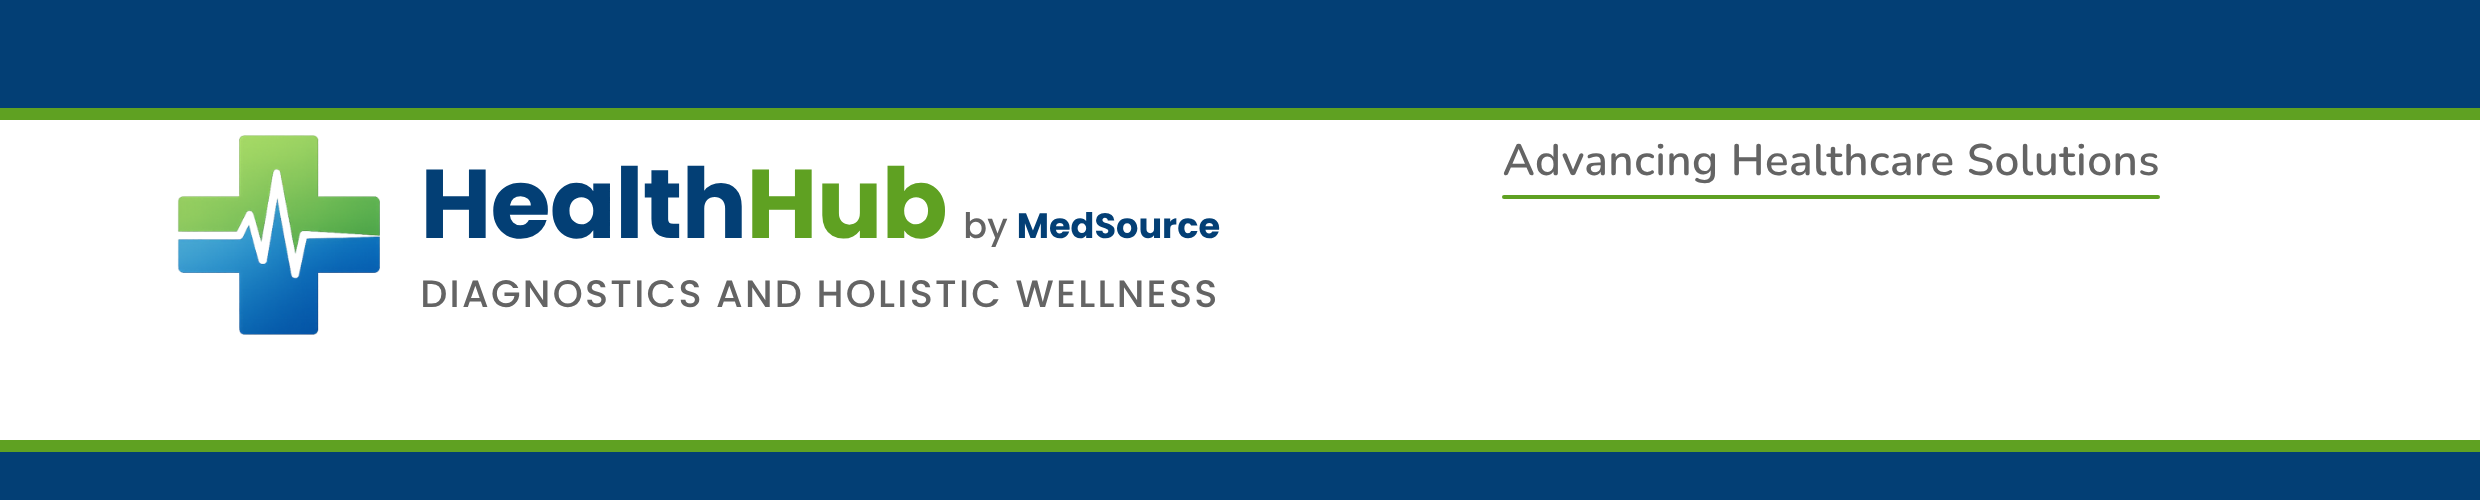
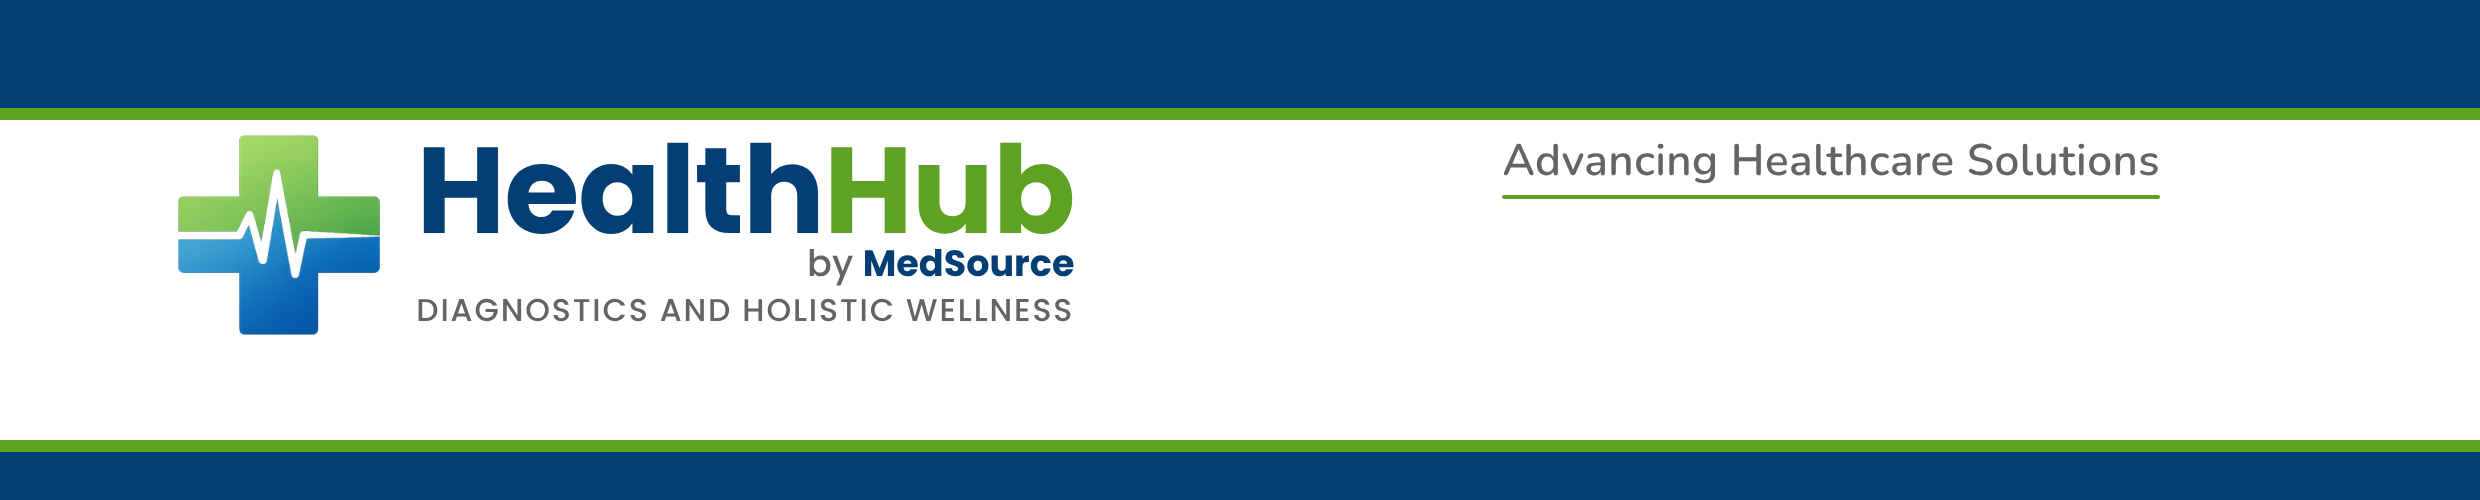
HealthHub letterhead: stacked lockup with design system proportions
Claude-Session: https://claude.ai/code/session_016dL7ufMN2VFfGBhqrXKWEq

Changed region(s): [[0.1552, 0.27, 0.4968, 0.66]]

diff --git a/healthhub/print/2026-10-healthhub-letterhead/source.html b/healthhub/print/2026-10-healthhub-letterhead/source.html
@@ -11,16 +11,17 @@ body{background:#888;font-family:"Nunito",sans-serif;display:flex;flex-direction
 .abs{position:absolute}
 .bar{position:absolute;left:0;width:2480px;background:var(--navy)}
 .acc{position:absolute;left:0;width:2480px;background:var(--green)}
-/* lockup: mark + text block, text block centred on the cross */
+/* lockup: mark + text block. Text lines are positioned by cap height so gaps are optical, not line-box accidents. */
 .lock{position:absolute;left:177px;display:flex;align-items:center}
 .lock img{display:block;flex:none}
-.txt{display:flex;flex-direction:column;align-items:flex-start;font-family:"Poppins",sans-serif}
-.name{display:flex;align-items:baseline;line-height:1;white-space:nowrap}
+.txt{position:relative;font-family:"Poppins",sans-serif}
+.txt>div{position:absolute;white-space:nowrap;line-height:1}
+.name{left:0;display:flex}
 .wm{display:inline-flex}
 .w{font-weight:700;letter-spacing:-.01em}
-.by{font-weight:500;color:var(--grey)}
+.by{right:0;font-weight:500;color:var(--grey)}
 .by b{font-weight:700;color:var(--navy)}
-.desc{font-weight:500;color:var(--grey);white-space:nowrap;line-height:1;text-transform:uppercase;letter-spacing:.06em}
+.desc{left:0;font-weight:500;color:var(--grey);text-transform:uppercase;letter-spacing:.06em}
 /* tagline: Nunito SemiBold grey with a short green rule */
 .tagwrap{position:absolute;right:320px;display:flex;flex-direction:column;align-items:stretch}
 .tag{font-family:"Nunito",sans-serif;font-weight:600;color:var(--grey);white-space:nowrap;text-align:right;letter-spacing:.01em}
@@ -31,10 +32,11 @@ body{background:#888;font-family:"Nunito",sans-serif;display:flex;flex-direction
 <div class="piece" id="h1" style="height:500px">
   <div class="bar" style="top:0;height:120px"></div>
   <div class="acc" style="top:108px;height:12px"></div>
-  <div class="lock" id="lock1" style="top:120px;height:230px" data-gap="40" data-target="800" data-icon="200">
+  <div class="lock" id="lock1" style="top:120px;height:230px" data-gap="36" data-s="122">
     <img src="assets/healthhub-mark.png" style="height:200px" alt="HealthHub mark">
     <div class="txt">
-      <div class="name"><span class="wm"><span class="w" style="color:var(--navy)">Health</span><span class="w" style="color:var(--green)">Hub</span></span><span class="by">by <b>MedSource</b></span></div>
+      <div class="name"><span class="wm"><span class="w" style="color:var(--navy)">Health</span><span class="w" style="color:var(--green)">Hub</span></span></div>
+      <div class="by">by <b>MedSource</b></div>
       <div class="desc">Diagnostics and Holistic Wellness</div>
     </div>
   </div>
@@ -48,10 +50,11 @@ body{background:#888;font-family:"Nunito",sans-serif;display:flex;flex-direction
 <div class="piece" id="h2" style="height:250px">
   <div class="bar" style="top:0;height:56px"></div>
   <div class="acc" style="top:48px;height:8px"></div>
-  <div class="lock" id="lock2" style="top:56px;height:162px" data-gap="30" data-target="580" data-icon="112">
+  <div class="lock" id="lock2" style="top:56px;height:162px" data-gap="20" data-s="68">
     <img src="assets/healthhub-mark.png" style="height:112px" alt="HealthHub mark">
     <div class="txt">
-      <div class="name"><span class="wm"><span class="w" style="color:var(--navy)">Health</span><span class="w" style="color:var(--green)">Hub</span></span><span class="by">by <b>MedSource</b></span></div>
+      <div class="name"><span class="wm"><span class="w" style="color:var(--navy)">Health</span><span class="w" style="color:var(--green)">Hub</span></span></div>
+      <div class="by">by <b>MedSource</b></div>
       <div class="desc">Diagnostics and Holistic Wellness</div>
     </div>
   </div>
@@ -64,9 +67,10 @@ body{background:#888;font-family:"Nunito",sans-serif;display:flex;flex-direction
 <div class="piece" id="f" style="height:250px">
   <div class="bar" style="top:0;height:24px"></div>
   <div class="acc" style="top:24px;height:8px"></div>
-  <div class="lock" id="lock3" style="top:32px;height:186px" data-gap="0" data-target="640" data-icon="0">
+  <div class="lock" id="lock3" style="top:32px;height:186px" data-gap="0" data-s="80">
     <div class="txt">
-      <div class="name"><span class="wm"><span class="w" style="color:var(--navy)">Health</span><span class="w" style="color:var(--green)">Hub</span></span><span class="by">by <b>MedSource</b></span></div>
+      <div class="name"><span class="wm"><span class="w" style="color:var(--navy)">Health</span><span class="w" style="color:var(--green)">Hub</span></span></div>
+      <div class="by">by <b>MedSource</b></div>
       <div class="desc">Diagnostics and Holistic Wellness</div>
     </div>
   </div>
@@ -76,14 +80,21 @@ body{background:#888;font-family:"Nunito",sans-serif;display:flex;flex-direction
 </div>
 
 <script>
-// Proportions: by MedSource is 36% of the wordmark size; descriptor is tracked +6% and set to the exact width of the name line; icon to text gap and line gap scale with the wordmark.
+// Poppins cap height .703em, line-height 1 puts cap top at .147em. X = wordmark cap height.
+// Lines: wordmark; "by MedSource" at 30% size right-aligned under the wordmark; descriptor tracked +6%, set to the exact wordmark width.
 function fit(lock){
-  const name=lock.querySelector('.name'),desc=lock.querySelector('.desc'),by=lock.querySelector('.by'),txt=lock.querySelector('.txt'),img=lock.querySelector('img');
-  const target=+lock.dataset.target, gap=+lock.dataset.gap;
-  const setSize=px=>{name.querySelectorAll('.w').forEach(e=>e.style.fontSize=px+'px');by.style.fontSize=(px*.36)+'px';by.style.marginLeft=(px*.17)+'px';desc.style.marginTop=(px*.22)+'px'};
-  setSize(100);
-  const px=100*target/name.getBoundingClientRect().width; setSize(px);
-  desc.style.fontSize='20px'; const w=desc.getBoundingClientRect().width; desc.style.fontSize=(20*name.getBoundingClientRect().width/w)+'px';
+  const txt=lock.querySelector('.txt'),name=txt.querySelector('.name'),by=txt.querySelector('.by'),desc=txt.querySelector('.desc'),img=lock.querySelector('img');
+  const s=+lock.dataset.s, gap=+lock.dataset.gap, CAP=.703, TOP=.147;
+  name.style.fontSize=s+'px'; name.querySelectorAll('.w').forEach(e=>e.style.fontSize=s+'px');
+  const W=name.getBoundingClientRect().width, X=CAP*s;
+  const b=s*.30; by.style.fontSize=b+'px';
+  desc.style.fontSize='20px'; const dw=desc.getBoundingClientRect().width; const d=20*W/dw; desc.style.fontSize=d+'px';
+  const y0=0;                       // wordmark cap top
+  const base0=y0+X;                 // wordmark baseline
+  const byCap=base0+.20*X, byBase=byCap+CAP*b;
+  const dCap=byBase+.27*X, dBase=dCap+CAP*d;
+  name.style.top=(y0-TOP*s)+'px'; by.style.top=(byCap-TOP*b)+'px'; desc.style.top=(dCap-TOP*d)+'px';
+  txt.style.width=W+'px'; txt.style.height=dBase+'px';
   if(img) txt.style.marginLeft=gap+'px';
 }
 document.fonts.ready.then(()=>{document.querySelectorAll('.lock').forEach(fit);document.body.dataset.ready='1'});

diff --git a/healthhub/print/2026-10-healthhub-letterhead/print.md b/healthhub/print/2026-10-healthhub-letterhead/print.md
@@ -8,7 +8,7 @@
 | Status | Draft |
 | Design | [MedSource HealthHub Design System](https://claude.ai/artifact/9rBBbMZtz8yim7BnH17PUR) (flat navy #033F75 and green #5FA122, Nunito). MedHealth logo carried over with the name changed to HealthHub by MedSource. Source: [source.html](source.html) |
 
-Follows the HealthHub design system: flat colour only (gradients stay inside the logo), navy bars on the outer edges with a thin flat green accent line next to the white area, tagline "Advancing Healthcare Solutions" in Nunito SemiBold grey with a short green rule. The lockup is proportioned from the mark: text block centred on the cross, descriptor tracked +6% and set to the exact width of the name line, tagline centred on the lockup (header first page keeps it inside the optional tagline band). The cross and heartbeat mark is untouched (cropped from the supplied MedHealth logo). Only the name changed: "MedHealth" became "HealthHub" with a smaller "by MedSource", in the logo's own Poppins lettering, with the descriptor kept the same width as the wordmark.
+Follows the HealthHub design system: flat colour only (gradients stay inside the logo), navy bars on the outer edges with a thin flat green accent line next to the white area, tagline "Advancing Healthcare Solutions" in Nunito SemiBold grey with a short green rule. The lockup follows the design system proportions: the mark is about 2.45 times the wordmark cap height, "by MedSource" is 30% of the wordmark size and right-aligned under it, the descriptor is tracked +6% and set to the exact wordmark width, gaps are set from the cap height, and the text block is centred on the cross. The tagline centred on the lockup (header first page keeps it inside the optional tagline band). The cross and heartbeat mark is untouched (cropped from the supplied MedHealth logo). Only the name changed: "MedHealth" became "HealthHub" with a smaller "by MedSource", in the logo's own Poppins lettering, with the descriptor kept the same width as the wordmark.
 
 Fitted to [LETTERHEAD-SPEC.md](../../../LETTERHEAD-SPEC.md). First page header keeps Zone A (branch tag) and Zone B (phone, email, address) blank because the system prints them. The logo ends at x 1184, y 340, nothing sits under the logo, and only the optional tagline sits at the top right.
 
